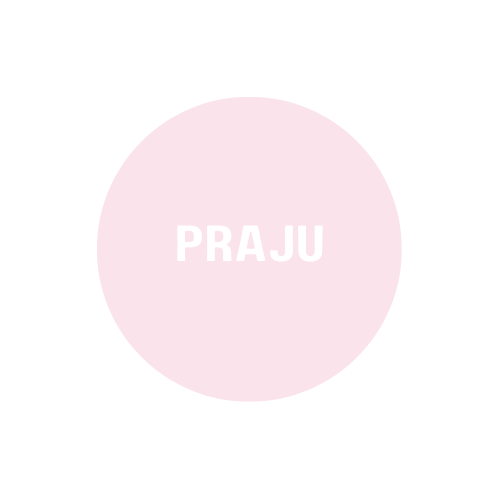
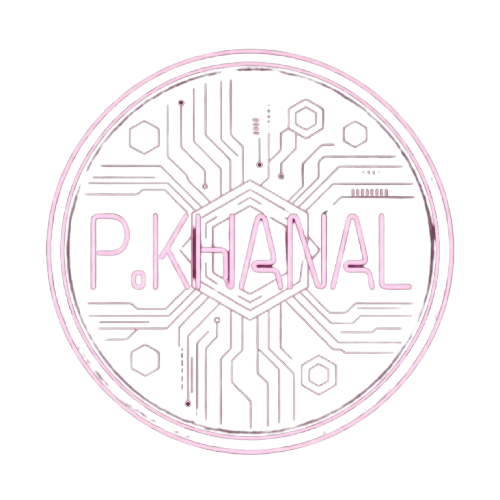
minor updates

diff --git a/src/components/Projects.jsx b/src/components/Projects.jsx
@@ -21,35 +21,35 @@ const projects = [
   {
     title: "Maze Generator",
     image: mazeimg,
-    desc: "Interactive maze generator with Kruskal's and Prim's algorithms and D3.js performance visualizations. Implemented heuristic-based Depth First Search (HDFS) for real-time maze solving. Won Best Project Award at Everest Engineering College.",
+    desc: "An interactive maze generator and solver that visualizes algorithms (Kruskal, Prim) and performance using D3.js. I implemented a heuristic DFS solver and added analytics; this project won the Best Project Award.",
     tags: ["React", "MongoDB", "D3.js", "Express", "Algorithms"],
     github: "https://github.com/Praju2002/Minorproj.git"
   },
   {
     title: "DocuFind",
     image: docufindimg,
-    desc: "Adaptive word-detection system for degraded documents (crumpled, low-contrast, varied fonts). Compared pixel-based and feature-based methods; built an 'Auto' mode that selects the best approach. Basis for IEEE-published research.",
+    desc: "An adaptive word-detection system that handles low-contrast and damaged documents. I compared pixel- and feature-based approaches and built an 'Auto' mode to pick the best method — work that contributed to an IEEE paper.",
     tags: ["OpenCV", "Python", "Computer Vision"],
     github: "https://github.com/Praju2002/template-final.git"
   },
   {
     title: "Text Compressor",
     image: textimg,
-    desc: "Lossless file compression tool using Huffman encoding with file I/O and directory management. Reduces file sizes while maintaining data integrity through optimal algorithmic compression.",
+    desc: "A lossless compression tool using Huffman encoding. It reduces file sizes while preserving every bit of data, with simple file and directory handling.",
     tags: ["C++", "Huffman Encoding", "Algorithms"],
     github: "https://github.com/Praju2002/miniproject.git"
   },
   {
     title: "Gantabya",
     image: "/gantabya.jpg",
-    desc: "Hyper-localized travel app for Nepali travelers with interactive trail mapping via OpenStreetMap. Users can add/share trails and checkpoints; real-time weather via OpenWeatherMap API.",
+    desc: "A hyper-local travel app for Nepali travelers that lets users share trails and map routes with OpenStreetMap. It also surfaces live weather for each trail.",
     tags: ["React", "OpenStreetMap", "REST APIs", "Geolocation"],
     github: "https://github.com/Abhiyan31415/Elsendero.git"
   },
   {
     title: "SootheSphere",
     image: soothesphereimg,
-    desc: "Sound therapy app with personalized soundscapes based on user mood and a journaling interface. Create custom audio environments to enhance focus, sleep, and relaxation. Built during WLiT fellowship.",
+    desc: "A sound-therapy app that generates personalized soundscapes and includes a simple journaling interface to help with focus, sleep, and relaxation.",
     tags: ["Node.js", "MongoDB", "EJS", "Audio Processing"],
     github: "https://github.com/Praju2002/WLiT-Hackathon.git"
   }

diff --git a/src/components/AboutMe.jsx b/src/components/AboutMe.jsx
@@ -273,13 +273,13 @@ const AboutMe = () => {
                 </Box>
                 <Divider sx={{ mb: 2, borderColor: `#e8e0f8` }} />
                 <Typography variant="body1" sx={{ mb: 2, color: "#444", lineHeight: 1.8, fontSize: { xs: "0.9rem", sm: "1rem" } }}>
-                  Computer Engineering graduate with hands-on experience in frontend development (React, TypeScript, Tailwind CSS) and software QA (manual testing, Playwright automation, JIRA). Focused on building reliable, well-tested systems.
+                  I graduated in Computer Engineering and enjoy building clear, responsive frontends and reliable test suites. My day-to-day work blends React, TypeScript, and modern CSS with hands-on QA using Playwright and manual testing.
                 </Typography>
                 <Typography variant="body1" sx={{ mb: 2, color: "#444", lineHeight: 1.8, fontSize: { xs: "0.9rem", sm: "1rem" } }}>
-                  Currently working as a QA Trainee at Asteroid Studio, designing and executing comprehensive test cases, identifying bugs across staging and production environments. Previously interned as a Frontend Developer, building responsive UI features using React, TypeScript, TanStack Router, and modern CSS frameworks.
+                  Right now I'm a QA Trainee at Asteroid Studio, where I write test plans, track down tricky bugs, and help keep staging and production stable. I also have experience interning as a frontend developer, shipping responsive UI features using React and TypeScript.
                 </Typography>
                 <Typography variant="body1" sx={{ color: "#444", lineHeight: 1.8, fontSize: { xs: "0.9rem", sm: "1rem" } }}>
-                  I'm passionate about creating scalable, maintainable code and delivering high-quality user experiences. My diverse background spanning full-stack development, QA , and data science enables me to approach problems from multiple angles and collaborate effectively across teams.
+                  I care about readable, maintainable code and user experiences that feel effortless. Combining development, QA, and data-focused work helps me solve problems from different angles and collaborate well with teammates.
                 </Typography>
               </Paper>
             </motion.div>

diff --git a/src/components/Contact.jsx b/src/components/Contact.jsx
@@ -37,7 +37,7 @@ const Contact = () => {
     setTimeout(() => {
       setFormStatus({
         open: true,
-        message: "Message sent successfully! I'll get back to you soon.",
+        message: "Thanks — your message is on its way. I'll get back to you soon.",
         severity: "success"
       });
       setFormData({ name: "", email: "", message: "" });
@@ -135,8 +135,7 @@ const Contact = () => {
                 letterSpacing: '0.01em',
               }}
             >
-              Have a project in mind or want to discuss opportunities? I'd love to hear from you.
-              Fill out the form below and I'll get back to you as soon as possible.
+              Have an idea or opportunity you'd like to discuss? Tell me about it below — I'll read every message and reply as soon as I can.
             </Typography>
           </motion.div>
           <Grid container spacing={4} sx={{ alignItems: "stretch", justifyContent: "center", width: "100%" }}>
@@ -191,6 +190,7 @@ const Contact = () => {
                           href={platform.url}
                           target="_blank"
                           rel="noopener noreferrer"
+                          aria-label={`Visit ${platform.name} profile`}
                           sx={{
                             p: 1.5,
                             borderRadius: "50%",

diff --git a/src/components/Achievements.jsx b/src/components/Achievements.jsx
@@ -117,7 +117,7 @@ const Achievements = () => {
               letterSpacing: '0.02em',
             }}
           >
-            A timeline of my professional journey and key milestones that have shaped my development career
+            Highlights from my journey — projects, awards, and experiences that helped shape my skills.
           </Typography>
         </motion.div>
         <Paper

diff --git a/src/components/Footer.jsx b/src/components/Footer.jsx
@@ -17,7 +17,7 @@ const Footer = () => {
       }}
     >
       <Typography variant="body2" sx={{ fontWeight: 400, fontSize: "0.875rem", fontFamily: "'Inter', sans-serif" }}>
-        © 2025 Praju Khanal. All rights reserved.
+        © 2026 Praju Khanal. All rights reserved.
       </Typography>
     </Box>
   );

diff --git a/src/components/ScrollToTop.jsx b/src/components/ScrollToTop.jsx
@@ -26,6 +26,7 @@ const ScrollToTop = () => {
     <Zoom in={showScroll}>
       <Fab
         onClick={scrollTop}
+        aria-label="Scroll to top"
         sx={{
           position: "fixed",
           bottom: { xs: 80, md: 20 },